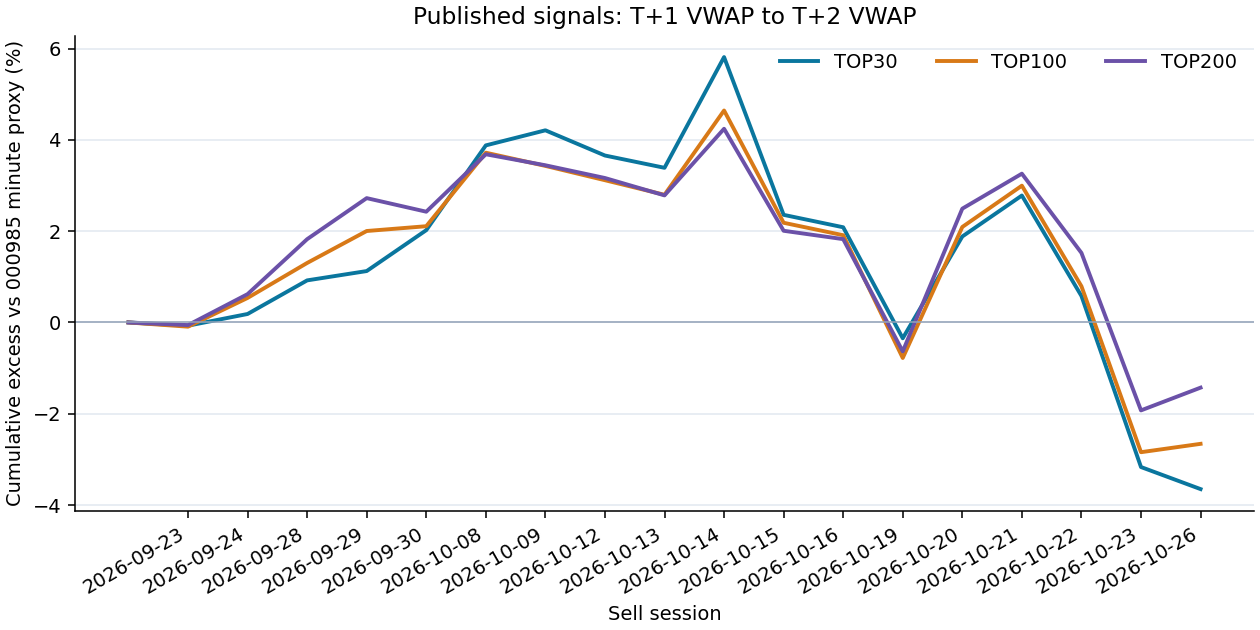
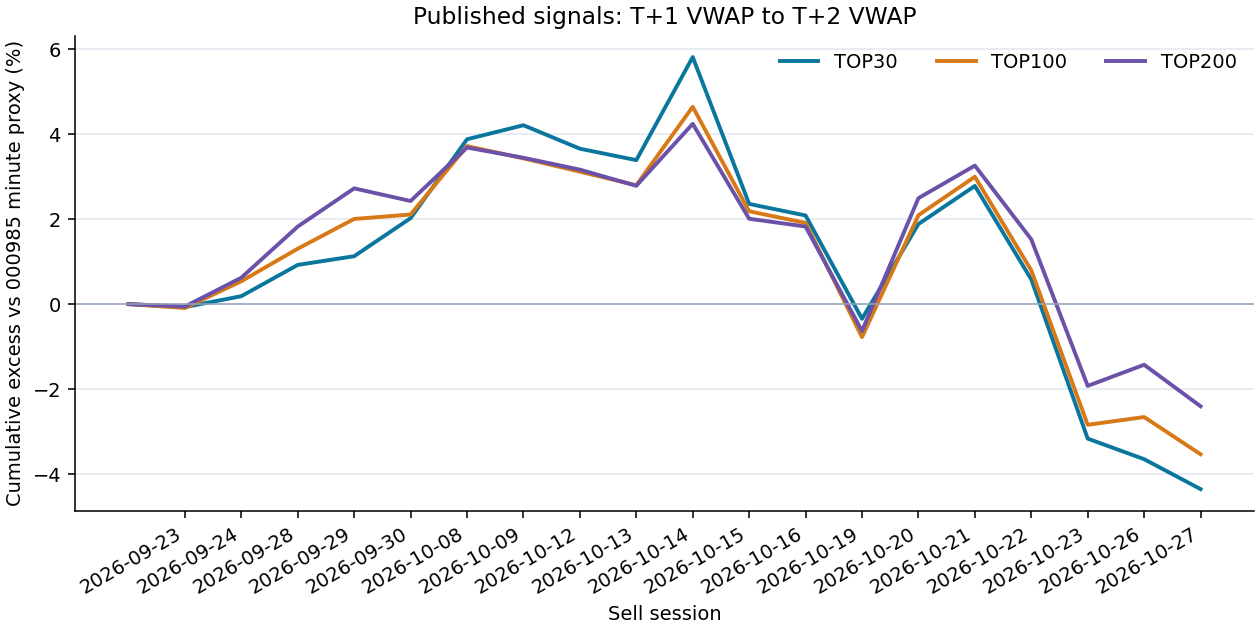
Update published signal performance through 2026-10-27

diff --git a/README.md b/README.md
@@ -17,13 +17,13 @@ CSV 编码为 UTF-8 BOM，按 `signal` 降序排列。
 <!-- PUBLIC_PERFORMANCE_START -->
 ## 已发布信号的历史表现
 
-仅统计本仓库 `signals/YYYY-MM-DD.csv` 已上传且买卖两日行情均完整的信号；截至 **2026-10-26**，共有 **18** 个已完成信号日，另有 **2** 个待结算或数据未齐。样本很短，暂无统计显著性结论。
+仅统计本仓库 `signals/YYYY-MM-DD.csv` 已上传且买卖两日行情均完整的信号；截至 **2026-10-27**，共有 **19** 个已完成信号日，另有 **2** 个待结算或数据未齐。样本很短，暂无统计显著性结论。
 
 | 组合 | 已完成信号日 | 组合累计收益 | 000985同期收益 | 累计超额 |
 |---|---:|---:|---:|---:|
-| TOP30 | 18 | -15.72% | -12.52% | -3.65% |
-| TOP100 | 18 | -14.85% | -12.52% | -2.66% |
-| TOP200 | 18 | -13.77% | -12.52% | -1.43% |
+| TOP30 | 19 | -16.60% | -12.80% | -4.35% |
+| TOP100 | 19 | -15.88% | -12.80% | -3.53% |
+| TOP200 | 19 | -14.90% | -12.80% | -2.40% |
 
 ![TOP30、TOP100、TOP200 累计超额净值](performance/excess_nav.png)
 
@@ -33,7 +33,6 @@ CSV 编码为 UTF-8 BOM，按 `signal` 降序排列。
 
 | 信号日 | 卖出日 | TOP30 | TOP100 | TOP200 |
 |---|---|---:|---:|---:|
-| 2026-10-09 | 2026-10-13 | -25.56 | -30.50 | -36.28 |
 | 2026-10-12 | 2026-10-14 | +235.12 | +180.05 | +142.29 |
 | 2026-10-13 | 2026-10-15 | -316.98 | -228.14 | -208.05 |
 | 2026-10-14 | 2026-10-16 | -26.70 | -26.79 | -18.05 |
@@ -43,6 +42,7 @@ CSV 编码为 UTF-8 BOM，按 `signal` 降序排列。
 | 2026-10-20 | 2026-10-22 | -209.83 | -209.68 | -164.75 |
 | 2026-10-21 | 2026-10-23 | -366.22 | -354.51 | -334.00 |
 | 2026-10-22 | 2026-10-26 | -50.77 | +19.17 | +51.67 |
+| 2026-10-23 | 2026-10-27 | -72.87 | -89.67 | -98.82 |
 
 ![TOP30、TOP100、TOP200 逐日超额](performance/daily_excess.png)
 
